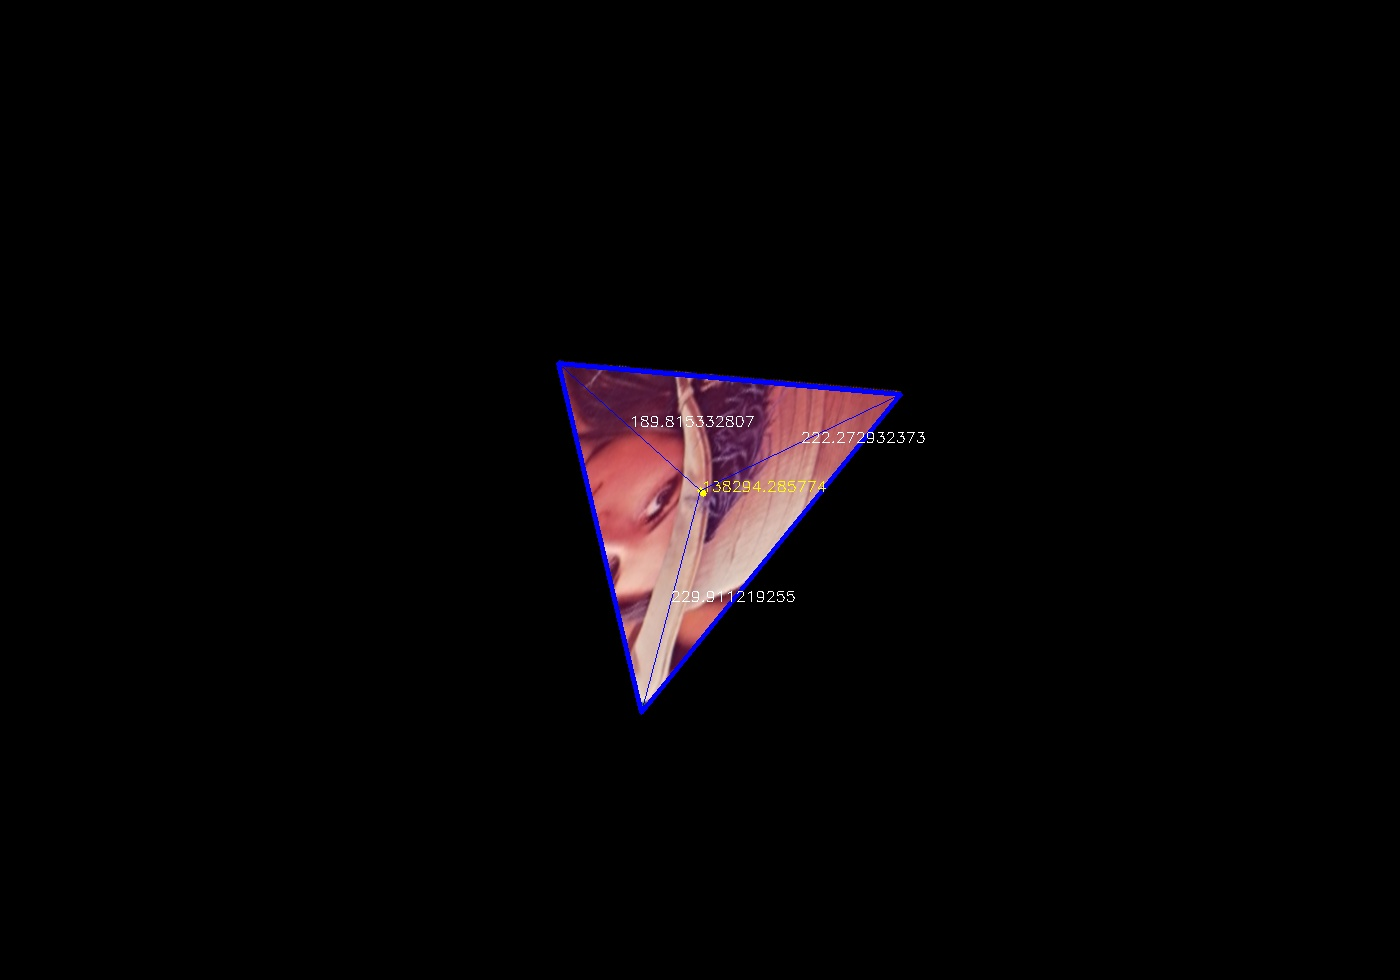
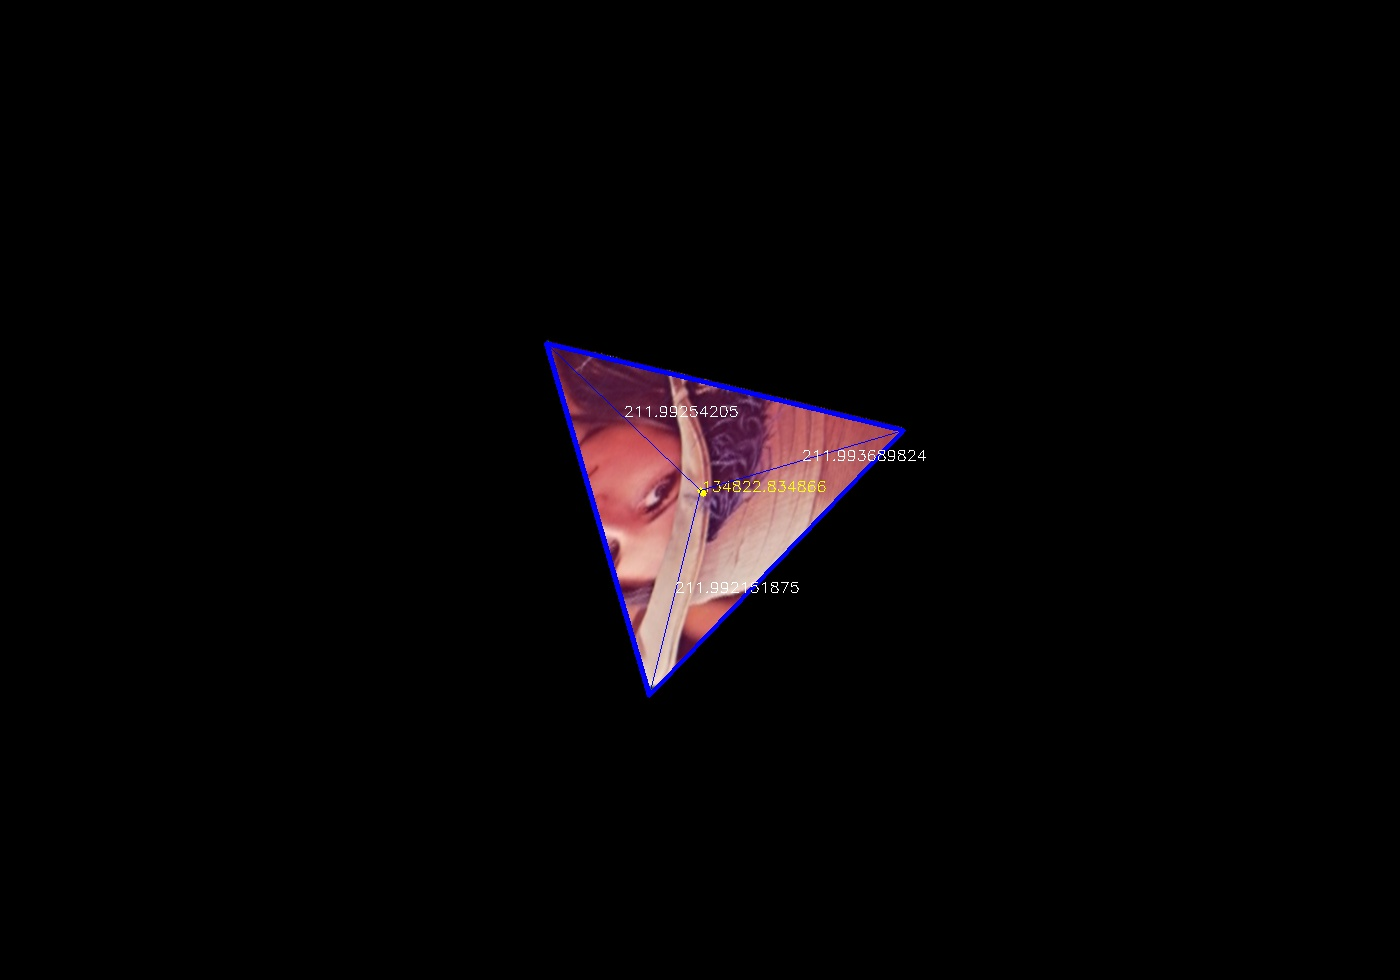
working global minimum

Changed region(s): [[0.3686, 0.3367, 0.645, 0.7347]]

diff --git a/getMinimumScaleForShape.py b/getMinimumScaleForShape.py
@@ -133,10 +133,18 @@ def calcDiffSquaredOfEveryPoint(shape, angle, scale):
 	#totalDiff += getTotalDiffSquaredOfAngles(newShape)
 	return totalDiff
 
-def f(variables, params):
-	shape = params
+global_shape = []
+def f(variables, *params):
+	shape = global_shape
+	print "shape"
+	print shape
+	print "variables"
+	print variables
 	angle, scale = variables
-	return calcDiffSquaredOfEveryPoint(shape, angle, scale)
+	val = calcDiffSquaredOfEveryPoint(shape, angle, scale)
+	print "val"
+	print val
+	return val 
 
 def frange(x, y, jump):
   while x < y:
@@ -167,6 +175,7 @@ def getValuesToNormaliseScale1(shape):
 	return (vals[0][2][1], vals[0][1][1])
 
 def getValuesToNormaliseScale2(shape, inputRange):
+	shape = BSO.centerShapeUsingPoint(shape, (0,0))
 	bounds = [(low, high) for low, high in zip(inputRange[0], inputRange[1])]
 	minimizer_kwargs = {"args": shape, "bounds": bounds}
 	val = optimize.basinhopping(f, [1,1], minimizer_kwargs=minimizer_kwargs)
@@ -177,9 +186,12 @@ def getValuesToNormaliseScale2(shape, inputRange):
 	return val['x'][0], scale 
 
 def getValuesToNormaliseScale(shape, inputRange):
+	shape = BSO.centerShapeUsingPoint(shape, (0,0))
 	bounds = inputRange
 	
-	val = optimize.differential_evolution(f, bounds, args=(1,2))
+	global global_shape 
+	global_shape = shape
+	val = optimize.differential_evolution(f, bounds, maxiter=2000, popsize=2000)
 	
 	print val
 	scale = val['x'][1]

diff --git a/testForTheGetMinimum.py b/testForTheGetMinimum.py
@@ -202,14 +202,14 @@ def testingGettingTheLocalMinimum():
 	pass
 
 
-xmin = [90., 4.]
-xmax = [100., 5.]
-newTest2("extreme", (xmin, xmax))
+xmin = [93., 4.]
+xmax = [98., 5.]
+newTest2("extreme", [(97.5,97.8), (4.,5.)] )
 xmin = [138., 1.]
 xmax = [149., 2.]
-newTest2("testImage1", (xmin, xmax))
+newTest2("testImage1", [(138.,149.), (1.,2.)] )
 xmin = [30., 1.]
 xmax = [40., 2.]
-newTest2("testImage2", (xmin, xmax))
+newTest2("testImage2", [(30.,40.), (1.,2.)] )
 
 #newTest2("lennaWithMoreGreenDots")
